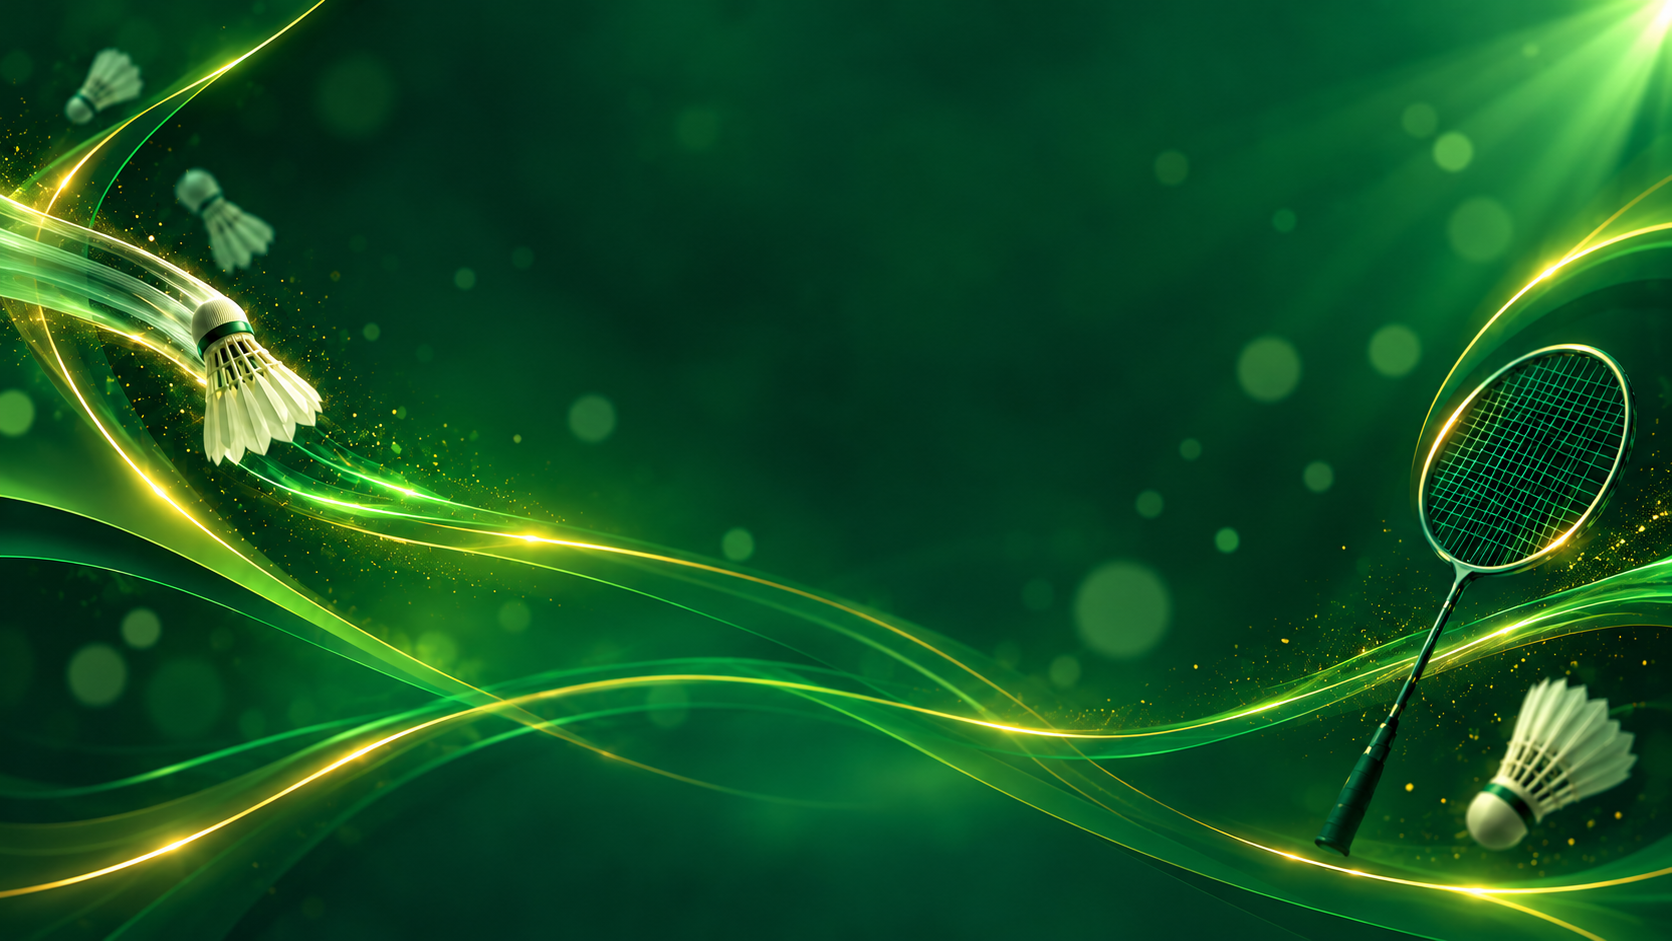
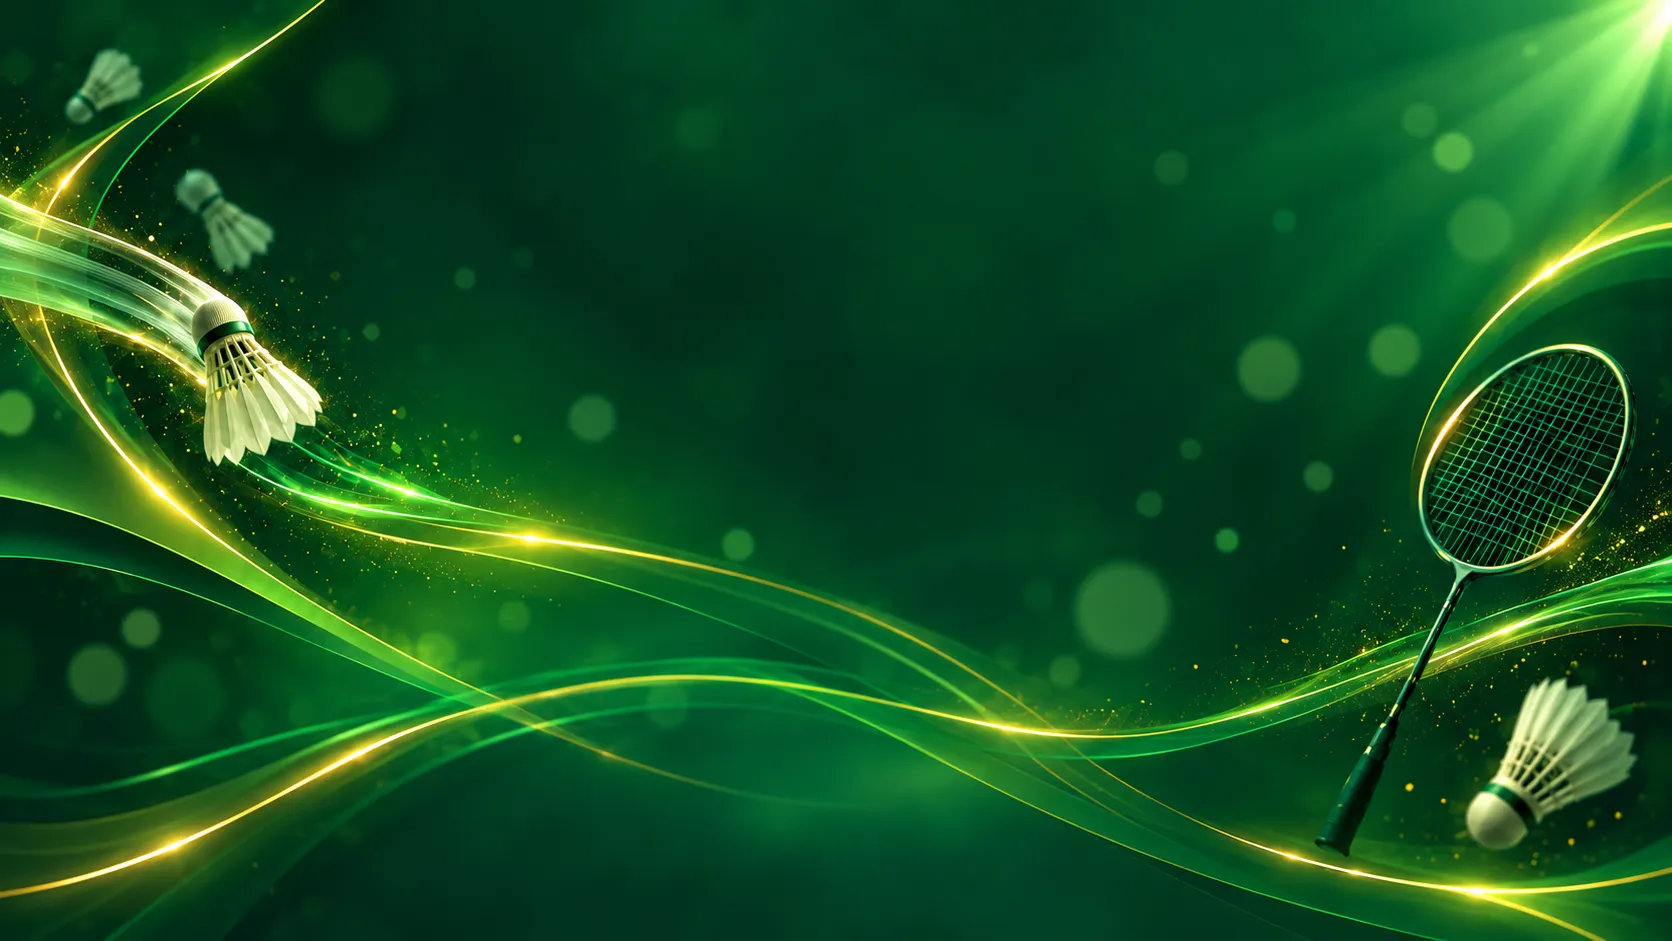
1.0.0.15

diff --git a/index.html b/index.html
@@ -13,16 +13,19 @@
   <link rel="icon" type="image/png" sizes="192x192" href="./icons/icon-192.png">
   <link rel="apple-touch-icon" href="./icons/apple-touch-icon.png">
   <link rel="preload" as="image" href="./assets/ppd-badminton-splash.webp" fetchpriority="high" media="(max-width: 700px)">
-  <link rel="preload" as="image" href="./assets/ppd-badminton-desktop.webp" fetchpriority="high" media="(min-width: 701px)">
+  <link rel="preload" as="image" href="./assets/ppd-badminton-desktop.webp?v=1.0.0.15" fetchpriority="high" media="(min-width: 701px)">
   <style>
     html,body{background-color:#00382e}
-    #startup-screen{position:fixed;inset:0;z-index:999999;display:flex;align-items:center;justify-content:center;overflow:hidden;background-color:#00382e;background-image:url("./assets/ppd-badminton-splash.webp");background-position:center center;background-size:cover;background-repeat:no-repeat;color:#fff}
+    #startup-screen{position:fixed;inset:0;z-index:999999;isolation:isolate;display:flex;align-items:center;justify-content:center;overflow:hidden;background-color:#00382e;background-image:none;color:#fff}
     #startup-screen[hidden]{display:none!important}
-    @media (min-width:701px){#startup-screen{background-image:url("./assets/ppd-badminton-desktop.webp")}}
+    #startup-screen .ppdSplashBackground{position:absolute;inset:0;z-index:0;pointer-events:none;opacity:0;transition:opacity .22s ease;background-image:url("./assets/ppd-badminton-splash.webp");background-position:center center;background-size:cover;background-repeat:no-repeat}
+    @media (min-width:701px){#startup-screen .ppdSplashBackground{background-image:url("./assets/ppd-badminton-desktop.webp?v=1.0.0.15")}}
+    #startup-screen.ppdSplashBackgroundReady .ppdSplashBackground{opacity:1}
+    #startup-screen .ppdSplashInterior{position:relative;z-index:1}
   </style>
-  <link rel="stylesheet" href="./styles.css?v=1.0.0.14">
+  <link rel="stylesheet" href="./styles.css?v=1.0.0.15">
   <title>Point Pedro Indoor Court</title>
-  <script src="./app.js?v=1.0.0.14" defer></script>
+  <script src="./app.js?v=1.0.0.15" defer></script>
 </head>
 <body>
   <div class="app-shell">
@@ -43,6 +46,7 @@
     </main>
   </div>
 <section id="startup-screen" class="ppdSplashNew" role="status" aria-label="Preparing court application" aria-live="polite">
+    <div class="ppdSplashBackground" aria-hidden="true"></div>
     <div class="ppdSplashInterior">
     <div class="ppdSplashBrand">
       <div class="ppdSplashLeaves" aria-hidden="true"><span>✦</span>❧<span>✦</span></div>
@@ -52,8 +56,8 @@
     </div>
     <div class="ppdSplashLogoSpace"><img id="pwa-splash-logo" draggable="false" oncontextmenu="return false" class="ppdSplashRealLogo" onload="this.classList.add('ppdLogoReady')" alt="Official Point Pedro Divisional Secretariat Sports Association logo"><span class="ppdSplashLogoWaiting" aria-hidden="true"></span></div>
     <div class="ppdSplashLoading"><div class="ppdSplashProgress" role="progressbar" aria-label="Application loading"><span></span></div><p id="startup-screen-text">Preparing your application...</p><small>Please wait</small></div>
-    <div class="ppdSplashCredits"><div class="ppdSplashCredit"><span class="ppdSplashCreditIcon ppdSplashComputerIcon" aria-hidden="true"><svg class="ppdSplashComputerSvg" viewBox="0 0 24 24"><rect x="3" y="3.5" width="18" height="13" rx="1.5"></rect><path d="M8 20.5h8M12 16.5v4"></path></svg></span><div><small>App Developed by</small><b id="pwa-splash-developer">AA Computers</b></div></div><span class="ppdSplashCreditDivider"></span><div class="ppdSplashCredit"><span class="ppdSplashCreditIcon" aria-hidden="true">◆</span><div><small>Version</small><b id="pwa-splash-version">1.0.1.165</b></div></div></div>
-    <div id="pwa-wrapper-version" class="ppdPwaVersionBadge" aria-label="GitHub PWA version"><small>GitHub PWA Version</small><b>1.0.0.14</b></div>
+    <div class="ppdSplashCredits"><div class="ppdSplashCredit"><span class="ppdSplashCreditIcon ppdSplashComputerIcon" aria-hidden="true"><svg class="ppdSplashComputerSvg" viewBox="0 0 24 24"><rect x="3" y="3.5" width="18" height="13" rx="1.5"></rect><path d="M8 20.5h8M12 16.5v4"></path></svg></span><div><small>App Developed by</small><b id="pwa-splash-developer">AA Computers</b></div></div><span class="ppdSplashCreditDivider"></span><div class="ppdSplashCredit"><span class="ppdSplashCreditIcon" aria-hidden="true">◆</span><div><small>Version</small><b id="pwa-splash-version">1.0.1.166</b></div></div></div>
+    <div id="pwa-wrapper-version" class="ppdPwaVersionBadge" aria-label="GitHub PWA version"><small>GitHub PWA Version</small><b>1.0.0.15</b></div>
   </div>
   <p id="startup-status" class="ppdSplashStatus" aria-live="polite">Checking your saved session securely.</p>
   <div id="startup-actions" class="startup-actions" hidden><button id="startup-retry" class="secondary-button" type="button">Retry loading</button></div>
@@ -66,7 +70,7 @@
     var name=document.getElementById('pwa-splash-developer');
     var version=document.getElementById('pwa-splash-version');
     if(name&&typeof meta.developerName==='string')name.textContent=meta.developerName.trim().slice(0,100)||'AA Computers';
-    if(version&&typeof meta.appVersion==='string')version.textContent=meta.appVersion.trim().slice(0,40)||'1.0.1.165';
+    if(version&&typeof meta.appVersion==='string')version.textContent=meta.appVersion.trim().slice(0,40)||'1.0.1.166';
   }catch(_){}
 })();
 </script>

diff --git a/styles.css b/styles.css
@@ -52,11 +52,13 @@ html,body{position:relative;overscroll-behavior:none;overflow:hidden}
 #booking-frame{touch-action:pan-y;overflow:hidden}
 
 /* Approved badminton artwork only: no gradient overlay or decorative artwork layer. */
-.ppdSplashNew{position:fixed;inset:0;z-index:999999;isolation:isolate;display:flex;align-items:center;justify-content:center;overflow:hidden;padding:max(env(safe-area-inset-top,0px),8px) max(env(safe-area-inset-right,0px),8px) max(env(safe-area-inset-bottom,0px),8px) max(env(safe-area-inset-left,0px),8px);background-color:#00382e;background-image:url("./assets/ppd-badminton-splash.webp");background-position:center center;background-size:cover;background-repeat:no-repeat;color:#fff;font-family:system-ui,-apple-system,"Segoe UI",sans-serif;opacity:1;transition:opacity .4s ease}
-@media(min-width:701px){.ppdSplashNew{background-image:url("./assets/ppd-badminton-desktop.webp");background-position:center center;background-size:cover}}
+.ppdSplashNew{position:fixed;inset:0;z-index:999999;isolation:isolate;display:flex;align-items:center;justify-content:center;overflow:hidden;padding:max(env(safe-area-inset-top,0px),8px) max(env(safe-area-inset-right,0px),8px) max(env(safe-area-inset-bottom,0px),8px) max(env(safe-area-inset-left,0px),8px);background-color:#00382e;background-image:none;color:#fff;font-family:system-ui,-apple-system,"Segoe UI",sans-serif;opacity:1;transition:opacity .4s ease}
+.ppdSplashBackground{position:absolute;inset:0;z-index:0;pointer-events:none;opacity:0;transition:opacity .22s ease;background-image:url("./assets/ppd-badminton-splash.webp");background-position:center center;background-size:cover;background-repeat:no-repeat}
+@media(min-width:701px){.ppdSplashBackground{background-image:url("./assets/ppd-badminton-desktop.webp?v=1.0.0.15");background-position:center center;background-size:cover}}
+.ppdSplashNew.ppdSplashBackgroundReady .ppdSplashBackground{opacity:1}
 .ppdSplashNew.splash-leaving,.ppdSplashNew.ppdSplashLeaving{opacity:0;pointer-events:none}
 
-.ppdSplashInterior{height:100%;max-height:900px;width:min(100%,660px);min-height:0;display:grid;grid-template-rows:minmax(0,.94fr) minmax(0,.78fr) auto auto auto;align-items:center;justify-items:center;gap:clamp(5px,1dvh,11px);padding:clamp(8px,1.3dvh,18px) clamp(4px,3vw,24px);min-width:0}
+.ppdSplashInterior{position:relative;z-index:1;height:100%;max-height:900px;width:min(100%,660px);min-height:0;display:grid;grid-template-rows:minmax(0,.94fr) minmax(0,.78fr) auto auto auto;align-items:center;justify-items:center;gap:clamp(5px,1dvh,11px);padding:clamp(8px,1.3dvh,18px) clamp(4px,3vw,24px);min-width:0}
 .ppdSplashBrand{width:100%;min-width:0;text-align:center;display:flex;flex-direction:column;justify-content:center;align-items:center;gap:clamp(3px,.7dvh,9px)}
 .ppdSplashLeaves{display:flex;align-items:center;gap:15px;color:#e4cb72;font-size:clamp(18px,3.7dvh,38px);height:1em}.ppdSplashLeaves span{font-size:.45em;color:#f8d579}
 .ppdSplashBrand h1{margin:0;line-height:1.06;font-size:clamp(19px,min(6.6vw,4dvh),53px);font-weight:780;letter-spacing:-.025em;color:#fff7e9;text-shadow:0 3px 6px #00201488;max-width:100%;overflow-wrap:normal;text-wrap:balance}

diff --git a/app.js b/app.js
@@ -1,4 +1,4 @@
-/* GitHub Pages PWA wrapper v1.0.0.14: splash first paint, temporary wrapper version, email-route forwarding and PushManager. */
+/* GitHub Pages PWA wrapper v1.0.0.15: splash first paint, temporary wrapper version, email-route forwarding and PushManager. */
 (() => {
   'use strict';
   const $ = id => document.getElementById(id);
@@ -30,6 +30,22 @@
   const state = {lastError:''};
   const startup = $('startup-screen'), startupStatus = $('startup-status'), startupActions = $('startup-actions');
   const splashLogo=$('pwa-splash-logo');
+  const splashBackgroundQuery=window.matchMedia('(min-width: 701px)');
+  let splashBackgroundLoadId=0;
+  function preloadSplashBackground(){
+    const loadId=++splashBackgroundLoadId;
+    const desktop=splashBackgroundQuery.matches;
+    startup.classList.remove('ppdSplashBackgroundReady');
+    const image=new Image();image.decoding='async';
+    const reveal=()=>{if(loadId===splashBackgroundLoadId&&splashBackgroundQuery.matches===desktop&&image.naturalWidth>0)startup.classList.add('ppdSplashBackgroundReady');};
+    image.onload=()=>{if(typeof image.decode==='function')image.decode().then(reveal).catch(reveal);else reveal();};
+    image.onerror=()=>{};
+    image.src=desktop?'./assets/ppd-badminton-desktop.webp?v=1.0.0.15':'./assets/ppd-badminton-splash.webp';
+    if(image.complete&&image.naturalWidth>0){if(typeof image.decode==='function')image.decode().then(reveal).catch(reveal);else reveal();}
+  }
+  preloadSplashBackground();
+  if(splashBackgroundQuery.addEventListener)splashBackgroundQuery.addEventListener('change',preloadSplashBackground);
+  else {let previousDesktop=splashBackgroundQuery.matches;window.addEventListener('resize',()=>{const nextDesktop=splashBackgroundQuery.matches;if(nextDesktop!==previousDesktop){previousDesktop=nextDesktop;preloadSplashBackground();}});}
   const PWA_SPLASH_META_KEY='ppd_public_splash_meta_v1';
   function applySplashMetadata(data, persist=true){
     if(!data||typeof data!=='object')return;
@@ -40,7 +56,7 @@
     if(version)$('pwa-splash-version').textContent=version;
     if(persist&&(typeof data.developerName==='string'||version)){try{
       const previous=JSON.parse(localStorage.getItem(PWA_SPLASH_META_KEY)||'{}');
-      localStorage.setItem(PWA_SPLASH_META_KEY,JSON.stringify({developerName:displayName||String(previous.developerName||'AA Computers').slice(0,100),appVersion:version||String(previous.appVersion||'1.0.1.165').slice(0,40)}));
+      localStorage.setItem(PWA_SPLASH_META_KEY,JSON.stringify({developerName:displayName||String(previous.developerName||'AA Computers').slice(0,100),appVersion:version||String(previous.appVersion||'1.0.1.166').slice(0,40)}));
     }catch(_){}}
   }
   try{const savedSplashMeta=JSON.parse(localStorage.getItem(PWA_SPLASH_META_KEY)||'null');if(savedSplashMeta)applySplashMetadata(savedSplashMeta,false);}catch(_){}

diff --git a/sw.js b/sw.js
@@ -1,10 +1,10 @@
-/* Point Pedro Court GitHub Pages shell v1.0.0.14.
+/* Point Pedro Court GitHub Pages shell v1.0.0.15.
    GAS iframe / Google Sheets / authentication responses are NEVER cached here. */
 'use strict';
-const CACHE_NAME='ppd-wrapper-shell-v1.0.0.14';
+const CACHE_NAME='ppd-wrapper-shell-v1.0.0.15';
 const PREFIX='ppd-wrapper-shell-';
 const SCOPE_URL=new URL('./',self.registration.scope);
-const CORE_FILES=['./','./index.html','./styles.css?v=1.0.0.14','./app.js?v=1.0.0.14','./assets/ppd-badminton-splash.webp','./assets/ppd-badminton-desktop.webp'];
+const CORE_FILES=['./','./index.html','./styles.css?v=1.0.0.15','./app.js?v=1.0.0.15','./assets/ppd-badminton-splash.webp','./assets/ppd-badminton-desktop.webp?v=1.0.0.15'];
 const OPTIONAL_FILES=['./manifest.webmanifest','./push-config.json',
   './icons/icon-192.png','./icons/icon-512.png','./icons/apple-touch-icon.png'];
 const isScopeURL=url=>url.origin===SCOPE_URL.origin&&url.pathname.startsWith(SCOPE_URL.pathname);
